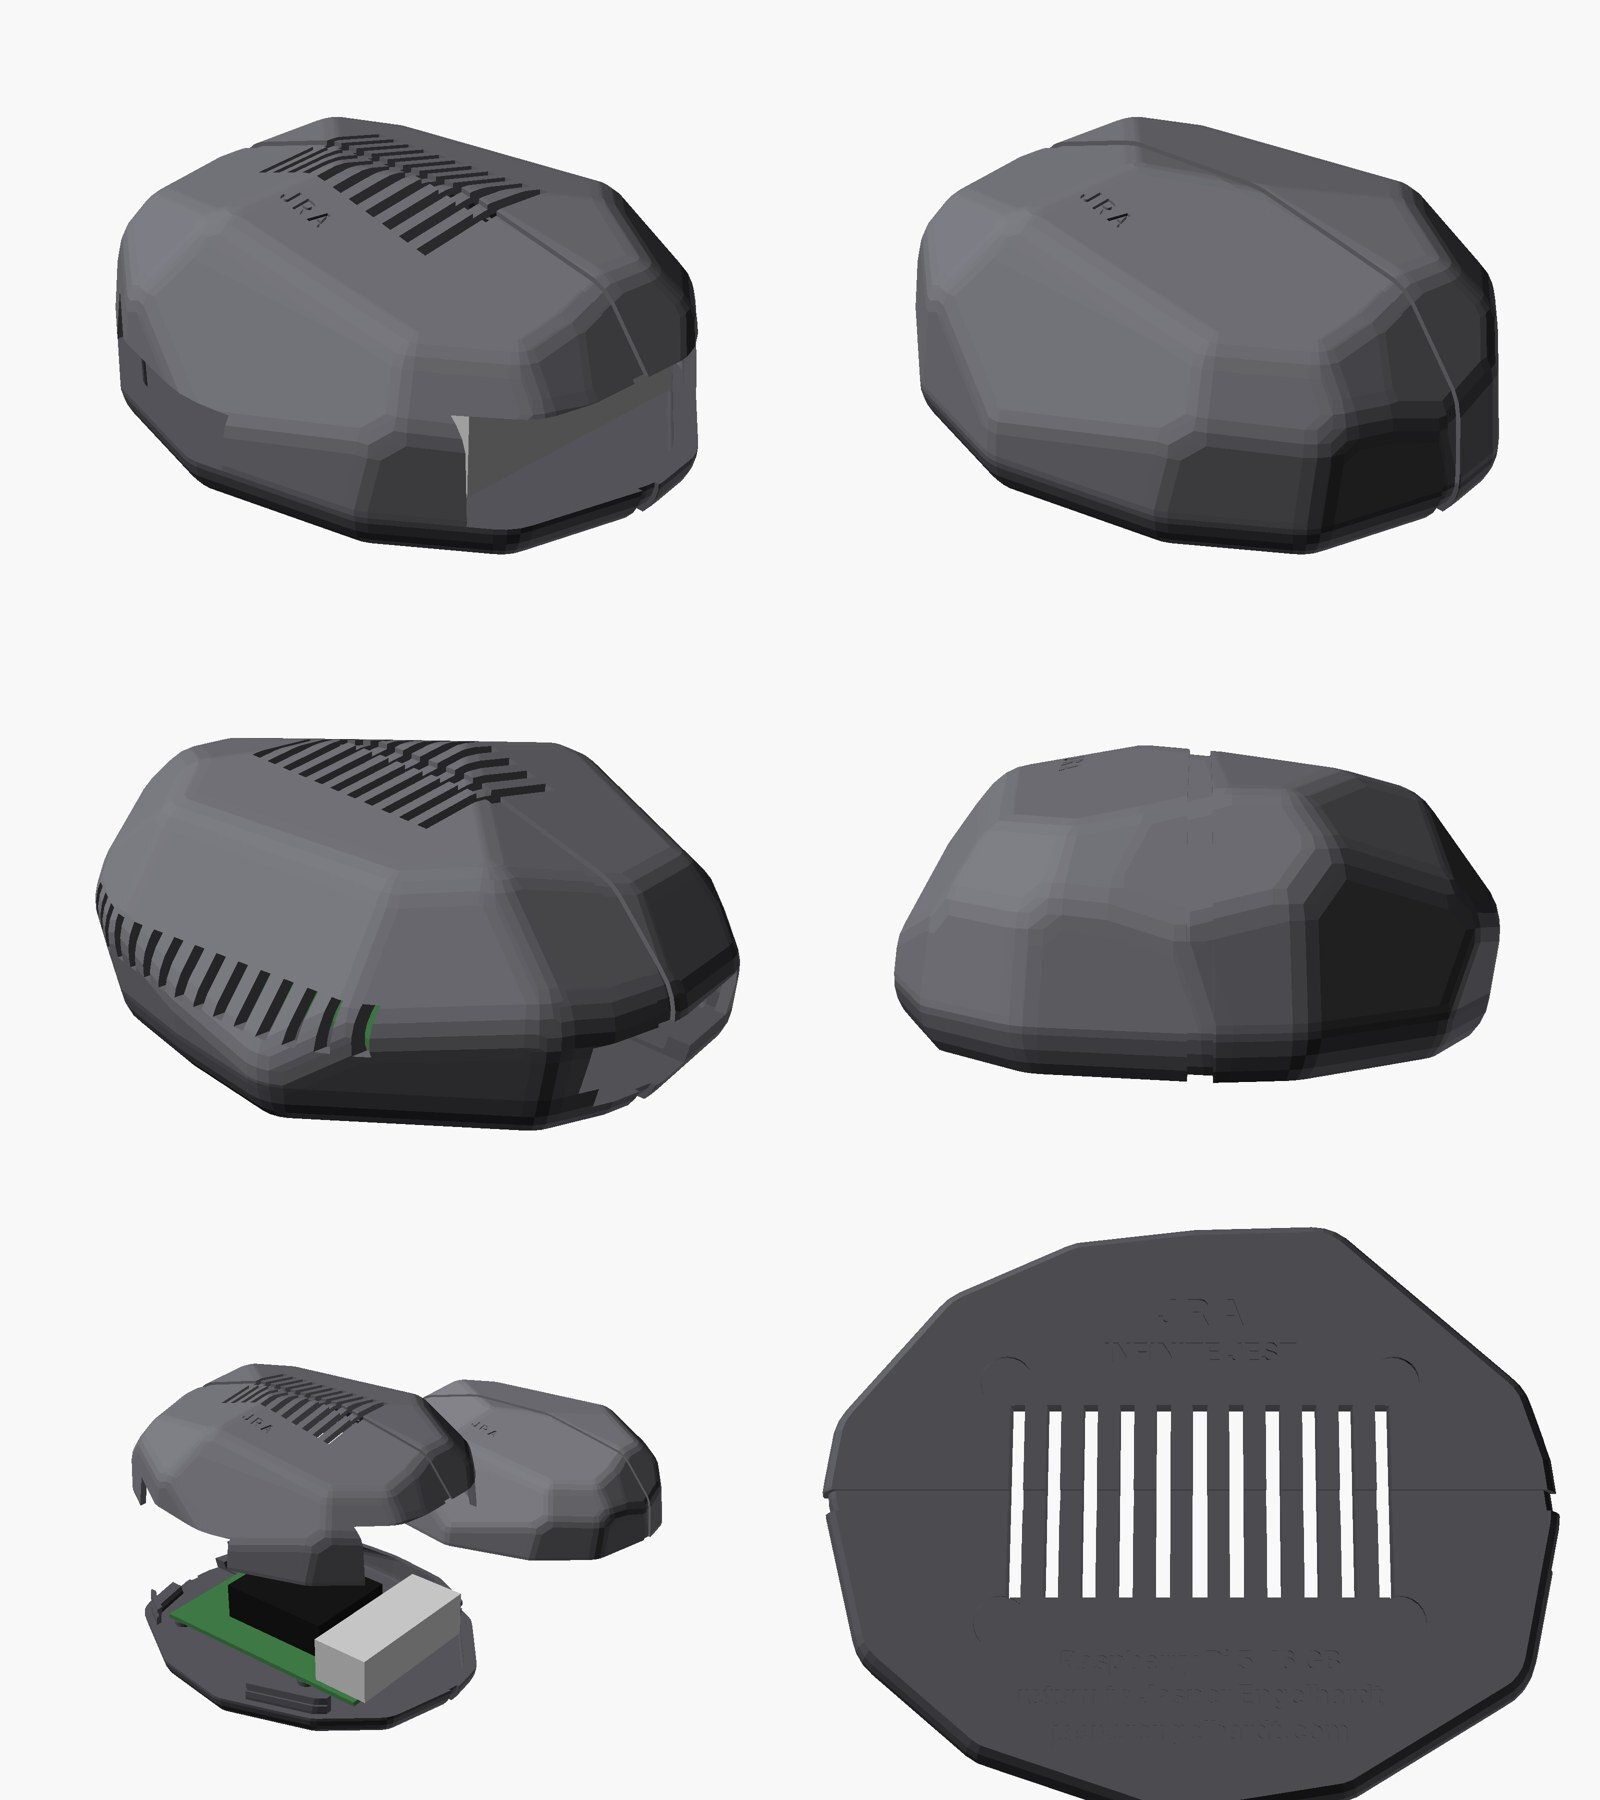
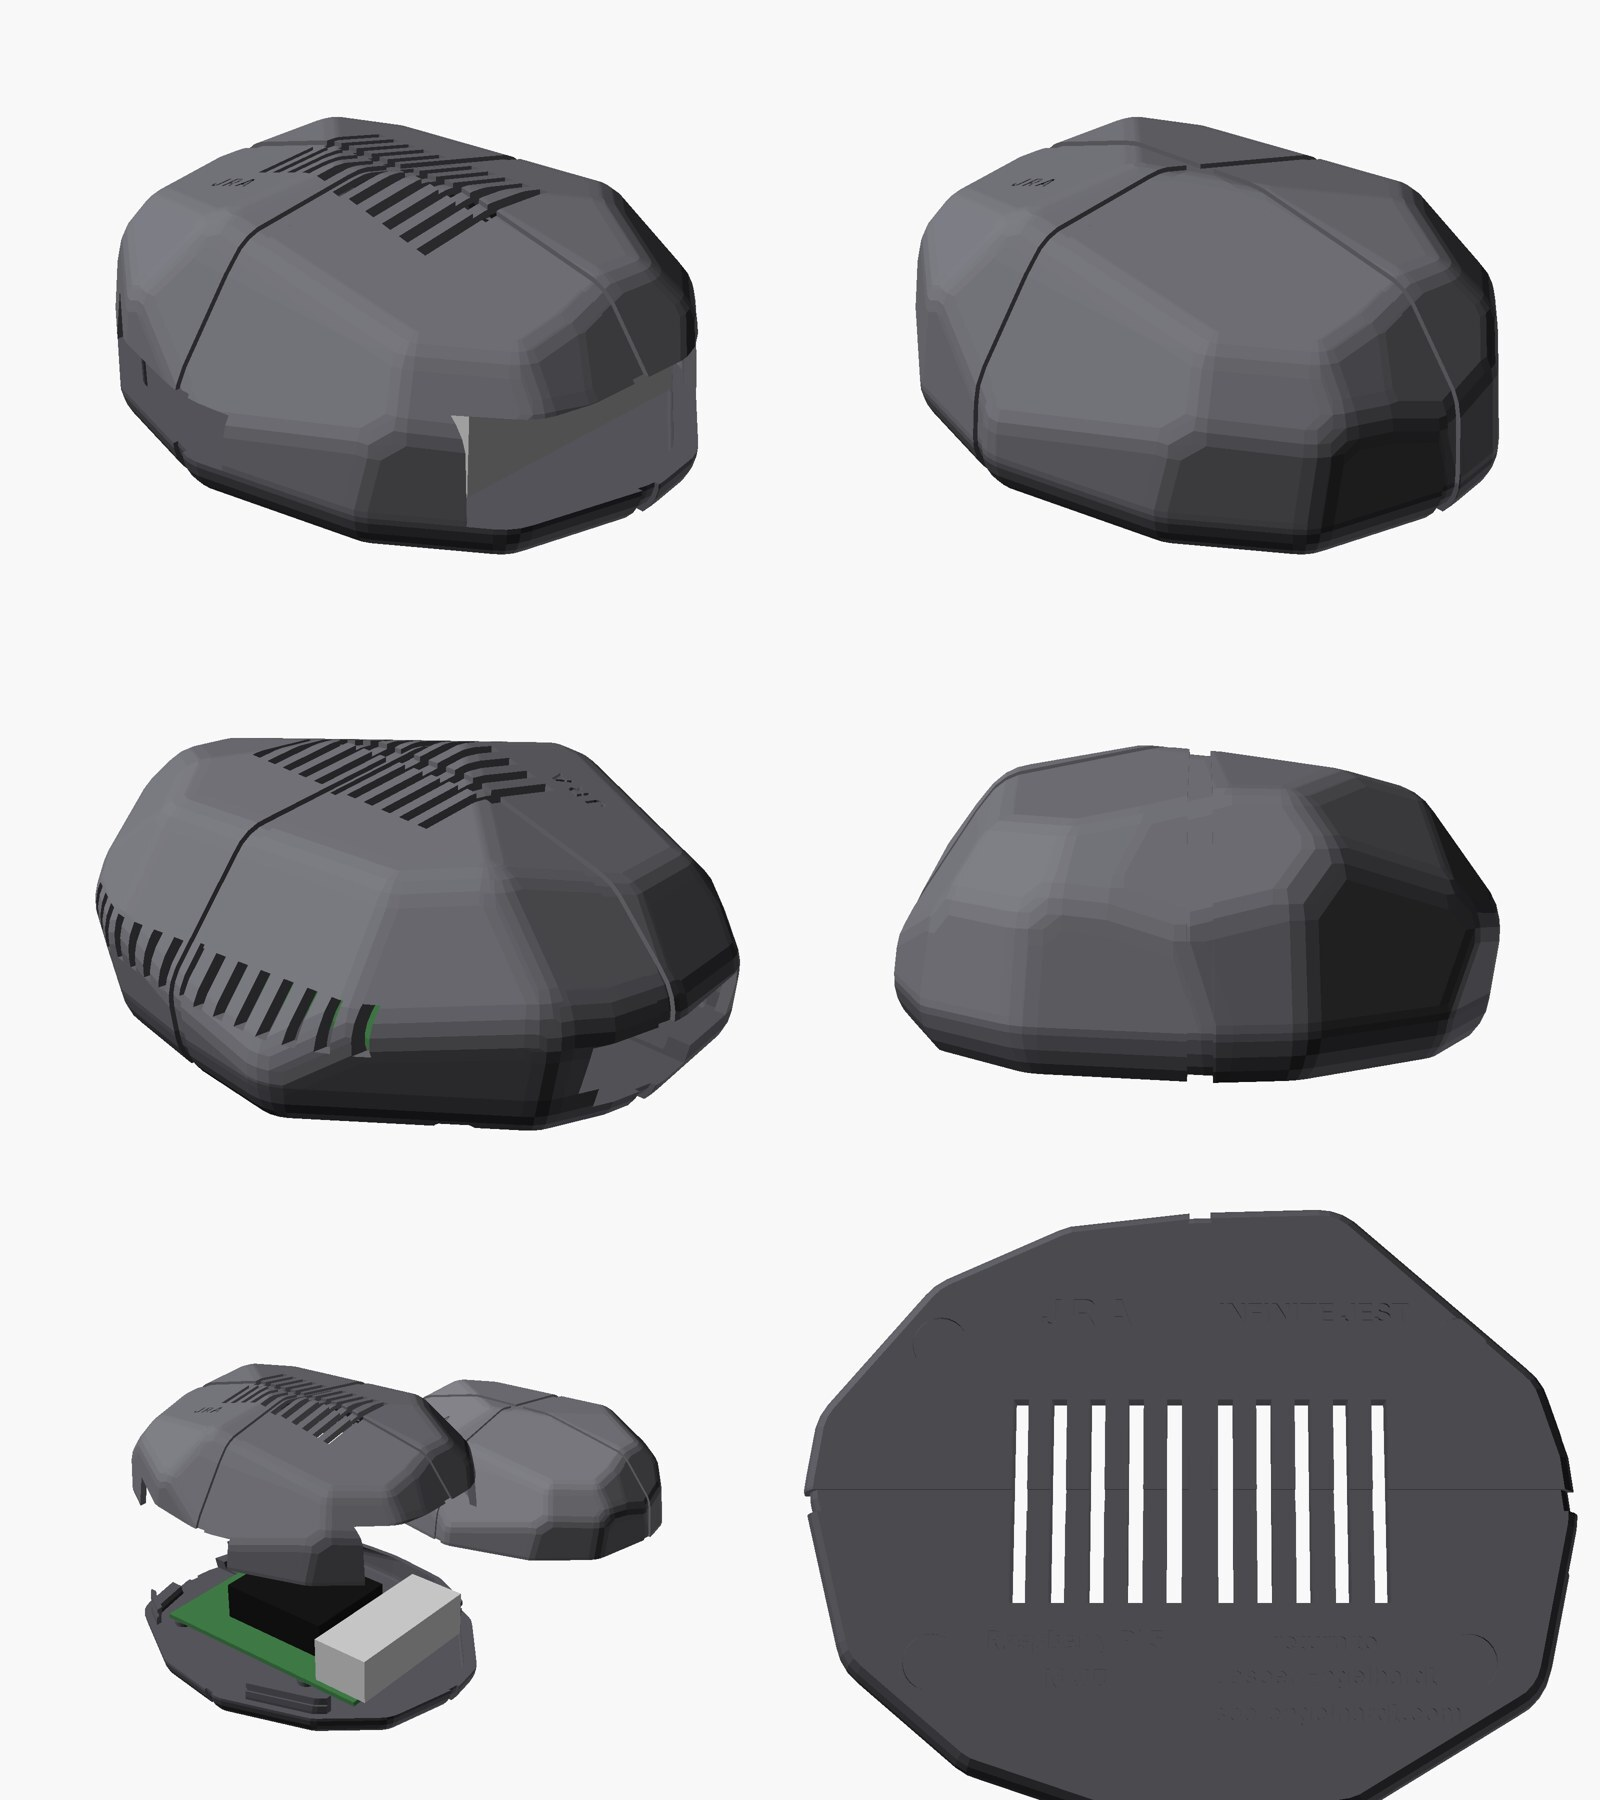
Docs: latest stone renders (band cross), scene stills, flyer
Claude-Session: https://claude.ai/code/session_012rfFFJsf1Du3374XFZ9xuq

diff --git a/docs/shell.md b/docs/shell.md
@@ -28,9 +28,10 @@ Active Cooler.
 **The click.** The tray rim has a groove; small ridges inside each shell snap into it.
 Push straight down to close, pull straight up to open.
 
-**New in v3: the band groove.** A fine channel (3.5 mm wide, 0.9 mm deep) runs once round
-the stone the long way, over the top and under the tray. A hair tie or rubber band in
-it keeps the shell shut in a bag.
+**New in v3: the band cross.** Two fine channels (3.5 mm wide, 0.9 mm deep) run round the
+stone, one the long way and one across; they cross on the top and under the tray. Two
+hair ties or rubber bands in them keep the shell shut in a bag. `band_w` and `band_d` in
+`stone.scad` set the size.
 
 **Marks.** J R A pressed into the top of each shell. Under the tray: J R A, INFINITE JEST,
 the Pi model and a return address.
@@ -44,7 +45,7 @@ the Pi model and a return address.
 - Test first: print the tray and the travel shell and try the click. Too tight: set
   `clr = 0.35` in `stone.scad`. Too loose: `bump_d = 0.7`.
 - Hardware: 4 x M2.5 x 6 mm self-tapping screws (or heat-set inserts), 4 rubber feet,
-  one hair tie.
+  two hair ties.
 
 ## Files
 

diff --git a/docs/samples.md b/docs/samples.md
@@ -18,6 +18,23 @@ GitHub plays MP3s in the browser when you click a file and choose "View raw".
 
 Full HD frames from the Pi.
 
+**Profiling**, in a simulated visit: the room sizing up a new visitor.
+
+![Profiling a visitor](media/stills/scene-profiling.jpg)
+
+**The wound**, **the fall** and **the dark**, three of the five scenes, each chosen for a
+different kind of visitor.
+
+![The wound](media/stills/scene-the-wound.jpg)
+
+![The fall](media/stills/scene-the-fall.jpg)
+
+![The dark](media/stills/scene-the-dark.jpg)
+
+**The confession**: the file the room shows at the end, honest about how little it knows.
+
+![The confession](media/stills/scene-confession.jpg)
+
 **Arrival.** The room notices someone and starts its file.
 
 ![Arrival](media/stills/approach-surveil.jpg)

diff --git a/README.md b/README.md
@@ -19,6 +19,8 @@ Status (Nov 24, 2026): running on the Raspberry Pi in test; install in room 401 
 week of Dec 4; first visitors Dec 9. Book at
 [jasperengelhardt.com/visit.html](https://jasperengelhardt.com/visit.html).
 
+<img src="docs/media/flyer.jpg" alt="Flyer: Infinite Jest. The best performance you have ever seen." width="320">
+
 ## The concept
 
 One person at a time stands on a marked spot in a dark room facing a screen. The room
